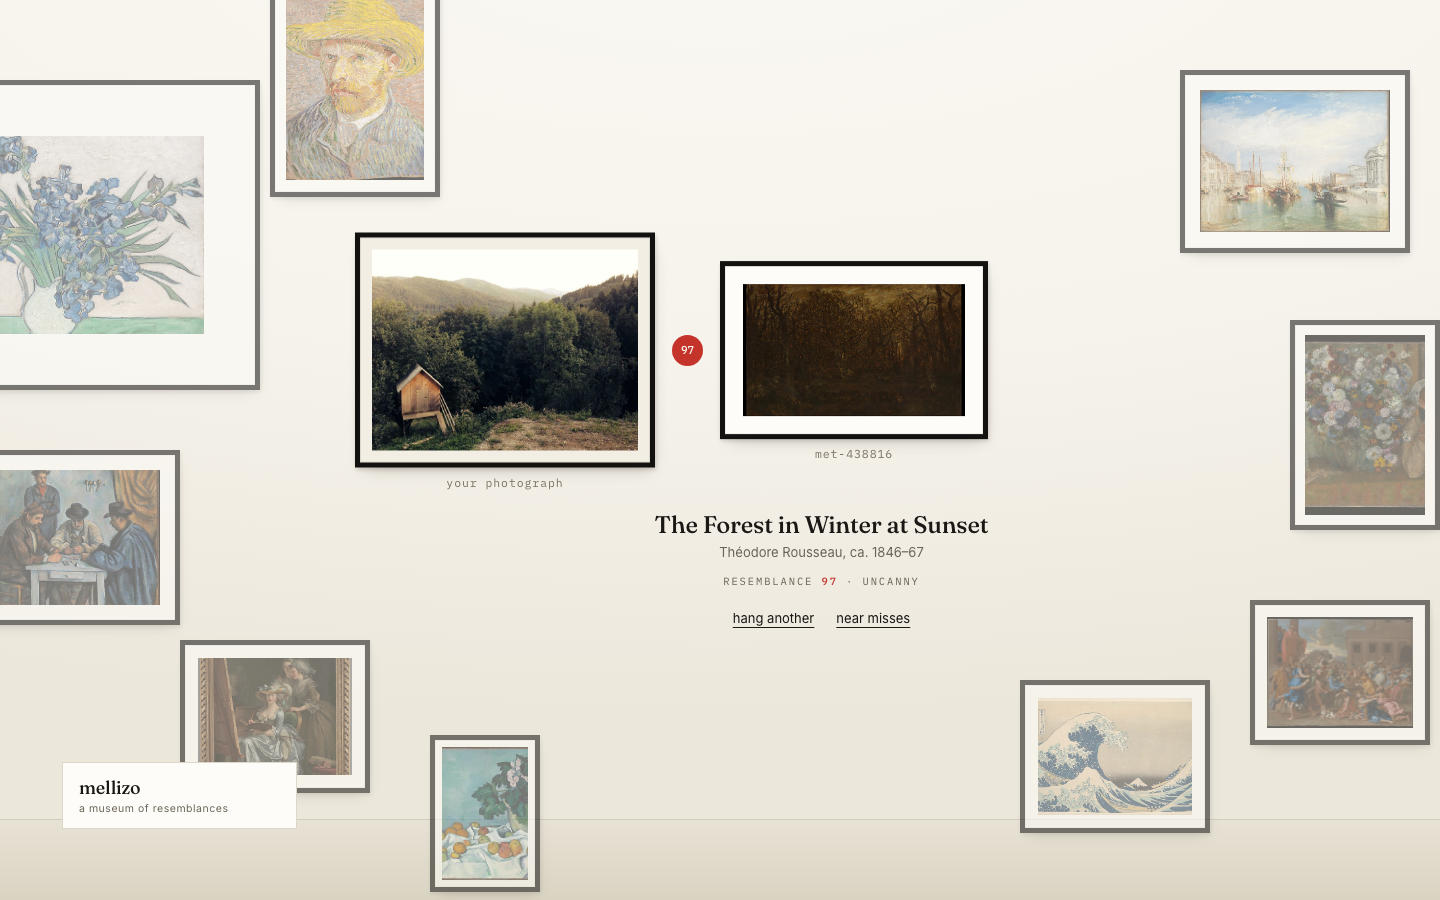
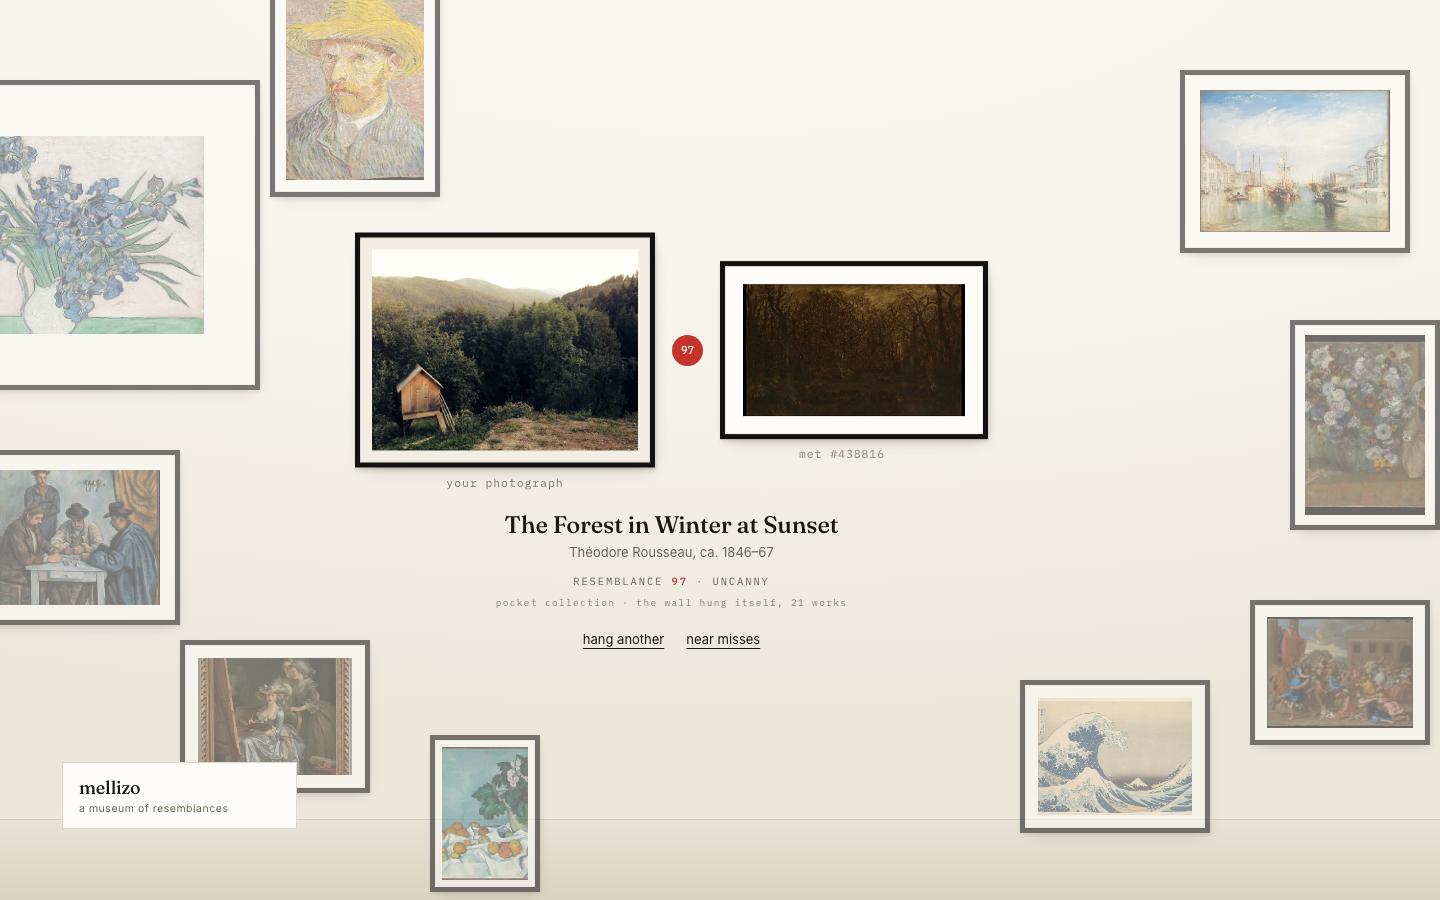
Design round 3: true stage timings, spread resemblance scores, in-flow near misses, fallback disclosure

diff --git a/src/data.ts b/src/data.ts
@@ -5,27 +5,27 @@ export type Art = {
 
 // Works hung on the entry wall — all Met open access.
 export const WALL_ART: Art[] = [
-  { id: "met-435809", title: "The Harvesters", artist: "Pieter Bruegel the Elder", date: "1565", img: "https://images.metmuseum.org/CRDImages/ep/web-large/DP119115.jpg", w: 4, h: 2.9 },
-  { id: "met-436532", title: "Self-Portrait with a Straw Hat", artist: "Vincent van Gogh", date: "1887", img: "https://images.metmuseum.org/CRDImages/ep/web-large/DT1502_cropped2.jpg", w: 3, h: 4 },
-  { id: "met-459055", title: "The Annunciation", artist: "Hans Memling", date: "1480–89", img: "https://images.metmuseum.org/CRDImages/rl/web-large/DP-40424-001.jpg", w: 3, h: 4 },
-  { id: "met-436121", title: "A Woman Seated beside a Vase of Flowers", artist: "Edgar Degas", date: "1865", img: "https://images.metmuseum.org/CRDImages/ep/web-large/DP-25460-001.jpg", w: 3, h: 4 },
-  { id: "met-436535", title: "Wheat Field with Cypresses", artist: "Vincent van Gogh", date: "1889", img: "https://images.metmuseum.org/CRDImages/ep/web-large/DP-42549-001.jpg", w: 4, h: 3 },
-  { id: "met-436105", title: "The Death of Socrates", artist: "Jacques Louis David", date: "1787", img: "https://images.metmuseum.org/CRDImages/ep/web-large/DP-13139-001.jpg", w: 4, h: 3 },
-  { id: "met-437853", title: "Venice, from the Porch of Madonna della Salute", artist: "J. M. W. Turner", date: "ca. 1835", img: "https://images.metmuseum.org/CRDImages/ep/web-large/DP169568.jpg", w: 4, h: 3 },
-  { id: "met-436944", title: "The Spanish Singer", artist: "Edouard Manet", date: "1860", img: "https://images.metmuseum.org/CRDImages/ep/web-large/dp130799.jpg", w: 3, h: 4 },
-  { id: "met-36491", title: "Under the Wave off Kanagawa", artist: "Katsushika Hokusai", date: "ca. 1830–32", img: "https://images.metmuseum.org/CRDImages/as/web-large/DP141063.jpg", w: 4, h: 3 },
-  { id: "met-435868", title: "The Card Players", artist: "Paul Cézanne", date: "1890–92", img: "https://images.metmuseum.org/CRDImages/ep/web-large/DP231550.jpg", w: 4, h: 3 },
-  { id: "met-435882", title: "Still Life with Apples and a Pot of Primroses", artist: "Paul Cézanne", date: "ca. 1890", img: "https://images.metmuseum.org/CRDImages/ep/web-large/DT47.jpg", w: 3, h: 4 },
-  { id: "met-436528", title: "Irises", artist: "Vincent van Gogh", date: "1890", img: "https://images.metmuseum.org/CRDImages/ep/web-large/DP346474.jpg", w: 4, h: 3 },
-  { id: "met-436524", title: "Sunflowers", artist: "Vincent van Gogh", date: "1887", img: "https://images.metmuseum.org/CRDImages/ep/web-large/DP-41223-001.jpg", w: 4, h: 3 },
-  { id: "met-437490", title: "The Annunciation", artist: "Hans Memling", date: "ca. 1465–70", img: "https://images.metmuseum.org/CRDImages/ep/web-large/DP240360.jpg", w: 3, h: 4 },
-  { id: "met-435962", title: "Hagar in the Wilderness", artist: "Camille Corot", date: "1835", img: "https://images.metmuseum.org/CRDImages/ep/web-large/DT2013.jpg", w: 4, h: 3 },
-  { id: "met-437329", title: "The Abduction of the Sabine Women", artist: "Nicolas Poussin", date: "probably 1633–34", img: "https://images.metmuseum.org/CRDImages/ep/web-large/DP-29324-001.jpg", w: 4, h: 3 },
-  { id: "met-459123", title: "Madame Roulin and Her Baby", artist: "Vincent van Gogh", date: "1888", img: "https://images.metmuseum.org/CRDImages/rl/web-large/DT3154.jpg", w: 3, h: 4 },
-  { id: "met-670185", title: "Dejanira Abducted by the Centaur Nessus", artist: "Charles Clément Bervic", date: "1802", img: "https://images.metmuseum.org/CRDImages/dp/web-large/DP841175.jpg", w: 3, h: 4 },
-  { id: "met-436840", title: "Self-Portrait with Two Pupils", artist: "Adélaïde Labille-Guiard", date: "1785", img: "https://images.metmuseum.org/CRDImages/ep/web-large/DP320103.jpg", w: 4, h: 3 },
-  { id: "met-438816", title: "The Forest in Winter at Sunset", artist: "Théodore Rousseau", date: "ca. 1846–67", img: "https://images.metmuseum.org/CRDImages/ep/web-large/DP-31520-001.jpg", w: 4, h: 3 },
-  { id: "met-360716", title: "Hands and Arms", artist: "Wenceslaus Hollar", date: "1644–52", img: "https://images.metmuseum.org/CRDImages/dp/web-large/DP823729.jpg", w: 4, h: 3 },
+  { id: "met-435809", objectUrl: "https://www.metmuseum.org/art/collection/search/435809", title: "The Harvesters", artist: "Pieter Bruegel the Elder", date: "1565", img: "https://images.metmuseum.org/CRDImages/ep/web-large/DP119115.jpg", w: 4, h: 2.9 },
+  { id: "met-436532", objectUrl: "https://www.metmuseum.org/art/collection/search/436532", title: "Self-Portrait with a Straw Hat", artist: "Vincent van Gogh", date: "1887", img: "https://images.metmuseum.org/CRDImages/ep/web-large/DT1502_cropped2.jpg", w: 3, h: 4 },
+  { id: "met-459055", objectUrl: "https://www.metmuseum.org/art/collection/search/459055", title: "The Annunciation", artist: "Hans Memling", date: "1480–89", img: "https://images.metmuseum.org/CRDImages/rl/web-large/DP-40424-001.jpg", w: 3, h: 4 },
+  { id: "met-436121", objectUrl: "https://www.metmuseum.org/art/collection/search/436121", title: "A Woman Seated beside a Vase of Flowers", artist: "Edgar Degas", date: "1865", img: "https://images.metmuseum.org/CRDImages/ep/web-large/DP-25460-001.jpg", w: 3, h: 4 },
+  { id: "met-436535", objectUrl: "https://www.metmuseum.org/art/collection/search/436535", title: "Wheat Field with Cypresses", artist: "Vincent van Gogh", date: "1889", img: "https://images.metmuseum.org/CRDImages/ep/web-large/DP-42549-001.jpg", w: 4, h: 3 },
+  { id: "met-436105", objectUrl: "https://www.metmuseum.org/art/collection/search/436105", title: "The Death of Socrates", artist: "Jacques Louis David", date: "1787", img: "https://images.metmuseum.org/CRDImages/ep/web-large/DP-13139-001.jpg", w: 4, h: 3 },
+  { id: "met-437853", objectUrl: "https://www.metmuseum.org/art/collection/search/437853", title: "Venice, from the Porch of Madonna della Salute", artist: "J. M. W. Turner", date: "ca. 1835", img: "https://images.metmuseum.org/CRDImages/ep/web-large/DP169568.jpg", w: 4, h: 3 },
+  { id: "met-436944", objectUrl: "https://www.metmuseum.org/art/collection/search/436944", title: "The Spanish Singer", artist: "Edouard Manet", date: "1860", img: "https://images.metmuseum.org/CRDImages/ep/web-large/dp130799.jpg", w: 3, h: 4 },
+  { id: "met-36491", objectUrl: "https://www.metmuseum.org/art/collection/search/36491", title: "Under the Wave off Kanagawa", artist: "Katsushika Hokusai", date: "ca. 1830–32", img: "https://images.metmuseum.org/CRDImages/as/web-large/DP141063.jpg", w: 4, h: 3 },
+  { id: "met-435868", objectUrl: "https://www.metmuseum.org/art/collection/search/435868", title: "The Card Players", artist: "Paul Cézanne", date: "1890–92", img: "https://images.metmuseum.org/CRDImages/ep/web-large/DP231550.jpg", w: 4, h: 3 },
+  { id: "met-435882", objectUrl: "https://www.metmuseum.org/art/collection/search/435882", title: "Still Life with Apples and a Pot of Primroses", artist: "Paul Cézanne", date: "ca. 1890", img: "https://images.metmuseum.org/CRDImages/ep/web-large/DT47.jpg", w: 3, h: 4 },
+  { id: "met-436528", objectUrl: "https://www.metmuseum.org/art/collection/search/436528", title: "Irises", artist: "Vincent van Gogh", date: "1890", img: "https://images.metmuseum.org/CRDImages/ep/web-large/DP346474.jpg", w: 4, h: 3 },
+  { id: "met-436524", objectUrl: "https://www.metmuseum.org/art/collection/search/436524", title: "Sunflowers", artist: "Vincent van Gogh", date: "1887", img: "https://images.metmuseum.org/CRDImages/ep/web-large/DP-41223-001.jpg", w: 4, h: 3 },
+  { id: "met-437490", objectUrl: "https://www.metmuseum.org/art/collection/search/437490", title: "The Annunciation", artist: "Hans Memling", date: "ca. 1465–70", img: "https://images.metmuseum.org/CRDImages/ep/web-large/DP240360.jpg", w: 3, h: 4 },
+  { id: "met-435962", objectUrl: "https://www.metmuseum.org/art/collection/search/435962", title: "Hagar in the Wilderness", artist: "Camille Corot", date: "1835", img: "https://images.metmuseum.org/CRDImages/ep/web-large/DT2013.jpg", w: 4, h: 3 },
+  { id: "met-437329", objectUrl: "https://www.metmuseum.org/art/collection/search/437329", title: "The Abduction of the Sabine Women", artist: "Nicolas Poussin", date: "probably 1633–34", img: "https://images.metmuseum.org/CRDImages/ep/web-large/DP-29324-001.jpg", w: 4, h: 3 },
+  { id: "met-459123", objectUrl: "https://www.metmuseum.org/art/collection/search/459123", title: "Madame Roulin and Her Baby", artist: "Vincent van Gogh", date: "1888", img: "https://images.metmuseum.org/CRDImages/rl/web-large/DT3154.jpg", w: 3, h: 4 },
+  { id: "met-670185", objectUrl: "https://www.metmuseum.org/art/collection/search/670185", title: "Dejanira Abducted by the Centaur Nessus", artist: "Charles Clément Bervic", date: "1802", img: "https://images.metmuseum.org/CRDImages/dp/web-large/DP841175.jpg", w: 3, h: 4 },
+  { id: "met-436840", objectUrl: "https://www.metmuseum.org/art/collection/search/436840", title: "Self-Portrait with Two Pupils", artist: "Adélaïde Labille-Guiard", date: "1785", img: "https://images.metmuseum.org/CRDImages/ep/web-large/DP320103.jpg", w: 4, h: 3 },
+  { id: "met-438816", objectUrl: "https://www.metmuseum.org/art/collection/search/438816", title: "The Forest in Winter at Sunset", artist: "Théodore Rousseau", date: "ca. 1846–67", img: "https://images.metmuseum.org/CRDImages/ep/web-large/DP-31520-001.jpg", w: 4, h: 3 },
+  { id: "met-360716", objectUrl: "https://www.metmuseum.org/art/collection/search/360716", title: "Hands and Arms", artist: "Wenceslaus Hollar", date: "1644–52", img: "https://images.metmuseum.org/CRDImages/dp/web-large/DP823729.jpg", w: 4, h: 3 },
 ];
 
 export type Match = Art & { score: number };

diff --git a/src/App.tsx b/src/App.tsx
@@ -42,6 +42,9 @@ export default function App() {
   const jobRef = useRef(0);
   const photoRef = useRef<Photo | null>(null);
   const clipReady = useRef(false);
+  const stageRef = useRef<"read" | "model" | "embed" | "search">("read");
+  const [limited, setLimited] = useState(false);
+  const swapRef = useRef(0);
 
   const result = phase === "result";
   const openPicker = () => inputRef.current?.click();
@@ -59,6 +62,7 @@ export default function App() {
     if (!f || !f.type.startsWith("image/") || busyRef.current) return;
     busyRef.current = true;
     const job = ++jobRef.current;
+    stageRef.current = "read";
     setShowRunners(false);
     setModelPct(0);
     let url: string | null = null;
@@ -73,20 +77,22 @@ export default function App() {
       setPhotoTracked({ url, w: img.naturalWidth, h: img.naturalHeight });
       url = null;
 
-      const { warmup, embedImage } = await import("./clip");
+      const { warmup, ready, embedImage } = await import("./clip");
+      stageRef.current = "model";
       if (!clipReady.current) setStatus(STATUS.warming);
       warmup(setModelPct);
-      const v = await embedImage(img);
+      await ready();
       clipReady.current = true;
       if (job !== jobRef.current) return;
 
+      stageRef.current = "embed";
       setStatus(STATUS.embedding);
-      // give the status a beat, and keep the embedding honest
-      await new Promise(r => setTimeout(r, 350));
+      const v = await embedImage(img);
       if (job !== jobRef.current) return;
 
+      stageRef.current = "search";
       setStatus(STATUS.searching);
-      const matches = await findMatches(v, 5);
+      const { list: matches, limited } = await findMatches(v, 5);
       if (job !== jobRef.current) return;
       if (!matches.length) throw new Error("empty");
 
@@ -102,13 +108,19 @@ export default function App() {
       setMatchAr(ar);
       setMatch(matches[0]);
       setRunners(matches.slice(1));
+      setLimited(limited);
       setPhase("result");
-      // the mark stamps ~900ms in — confirm exactly when it lands
-      setTimeout(() => haptics.trigger("success"), 900);
+      // the mark stamps late in the reveal — confirm exactly when it lands
+      const reduced = matchMedia("(prefers-reduced-motion: reduce)").matches;
+      setTimeout(() => haptics.trigger("success"), reduced ? 0 : 1400);
     } catch {
       if (job !== jobRef.current) return;
       setPhase("error");
-      setStatus("The wall couldn't read that photograph. Try another image.");
+      setStatus(stageRef.current === "model"
+        ? "The eyes couldn't load — check your connection and try again."
+        : stageRef.current === "search"
+          ? "The galleries didn't answer. Try once more."
+          : "The wall couldn't read that photograph. Try another image.");
     } finally {
       if (url) URL.revokeObjectURL(url);
       busyRef.current = false;
@@ -142,13 +154,22 @@ export default function App() {
     } catch { /* leave idle */ }
   }, [handleFile]);
 
-  // near misses hang in the twin's place — the pair survives, the candidate changes
+  // near misses hang in the twin's place — resolve proportions first so the
+  // frame morphs to the right shape as the candidate arrives
   const swapRunner = useCallback((r: Match) => {
-    setMatch(prev => prev ? (setRunners(rs => [prev, ...rs.filter(x => x.id !== r.id)]), r) : r);
+    const n = ++swapRef.current;
     const t = new Image();
-    t.onload = () => setMatchAr(t.naturalWidth ? t.naturalHeight / t.naturalWidth : 4 / 3);
+    t.onload = () => {
+      if (n !== swapRef.current) return;
+      setMatchAr(t.naturalWidth ? t.naturalHeight / t.naturalWidth : 4 / 3);
+      setMatch(prev => {
+        if (!prev) return r;
+        setRunners(rs => [prev, ...rs.filter(x => x.id !== r.id)]);
+        return r;
+      });
+      haptics.trigger("light");
+    };
     t.src = r.img;
-    haptics.trigger("light");
   }, []);
 
   // ----- pair geometry (result) -----
@@ -165,7 +186,7 @@ export default function App() {
   const aTop = seamY - ah / 2 - 5;
   const px = mobile ? 12 : 355;
   const ax = mobile ? 200 : 720;
-  const pairCx = (px + pwEff + ax + awEff) / 2;
+  const pairCx = (px + ax + awEff) / 2;
   const capTop = Math.max(pTop + ph, aTop + ah) + (mobile ? 34 : 52);
   const capLeft = mobile
     ? Math.min(Math.max(pairCx - 150, 10), 375 - 310)
@@ -256,7 +277,7 @@ export default function App() {
         >
           <div className="moulding">
             <div className="mat">
-              {match && <img src={match.img} alt={match.title} />}
+              {match && <img key={match.id} src={match.img} alt={match.title} />}
             </div>
           </div>
           {match?.objectUrl
@@ -281,6 +302,7 @@ export default function App() {
               <div className="title">{match.title}</div>
               <div className="who">{[match.artist, match.date].filter(Boolean).join(", ")}</div>
               <div className="verdict">resemblance <b>{match.score}</b> · {verdictWord(match.score)}</div>
+              {limited && <div className="limited">pocket collection · the wall hung itself, 21 works</div>}
               <div className="actions">
                 <button onClick={reset}>hang another</button>
                 {runners.length > 0 && (
@@ -289,19 +311,19 @@ export default function App() {
                   </button>
                 )}
               </div>
+              {showRunners && (
+                <div className="strip">
+                  {runners.slice(0, mobile ? 3 : 4).map(r => (
+                    <button key={r.id} className="mini" onClick={() => swapRunner(r)} aria-label={`Hang ${r.title} instead`}>
+                      <img src={r.img} alt={r.title} />
+                      <span>{r.score}</span>
+                    </button>
+                  ))}
+                </div>
+              )}
             </>
           )}
         </div>
-        {showRunners && result && (
-          <div className="strip" style={{ left: mobile ? Math.min(pairCx - 108, 159) : pairCx - 130, top: capTop + (mobile ? 190 : 140) }}>
-            {runners.slice(0, mobile ? 3 : 4).map(r => (
-              <button key={r.id} className="mini" onClick={() => swapRunner(r)} aria-label={`Hang ${r.title} instead`}>
-                <img src={r.img} alt={r.title} />
-                <span>{r.score}</span>
-              </button>
-            ))}
-          </div>
-        )}
 
         {/* invitation vinyl / status / error */}
         <div className={`vinyl${result ? " off" : ""}`} style={mobile
@@ -323,7 +345,7 @@ export default function App() {
           {phase === "error" ? (
             <p className={`act${mobile ? " tap" : ""}`}><button className="retry" onClick={openPicker}>try again</button></p>
           ) : phase === "idle" && !mobile ? (
-            <p className="act"><button className="retry" onClick={useSample}>or hang one of ours</button></p>
+            <p className="act"><button className="retry" onClick={useSample}><img className="sample-thumb" src="/sample.jpg" alt="" />or hang one of ours</button></p>
           ) : null}
         </div>
 

diff --git a/src/styles.css b/src/styles.css
@@ -68,7 +68,7 @@ body {
 }
 .frame.pair .accn, .frame.twin .accn { opacity: 1; }
 @media (hover: hover) { .frame:hover .accn { opacity: 1; } }
-.accn.link { color: #8d8574; text-decoration: none; padding: 8px 10px; margin: -8px -10px; border-bottom: 1px solid transparent; }
+.accn.link { color: #8d8574; text-decoration: none; padding: 16px 12px; margin: -16px -12px; border-bottom: 1px solid transparent; }
 @media (hover: hover) { .accn.link:hover { color: var(--ink); border-bottom-color: var(--ink); } }
 .accn.link:focus-visible { outline: 2px solid var(--red); outline-offset: 2px; color: var(--ink); }
 .accn.link:active { color: var(--red); }
@@ -122,15 +122,22 @@ button.frame:disabled { cursor: default; }
   font: inherit; color: inherit; cursor: pointer;
   border-bottom: 1px solid var(--ink);
 }
-.vinyl .act.tap .retry { display: inline-block; padding: 13px 6px 13px 0; margin: -4px 0; }
-.vinyl .act .retry:hover { border-bottom-color: var(--red); color: var(--red); }
+.vinyl .act.tap .retry { display: inline-block; padding: 15px 8px 15px 0; margin: -4px 0; }
+@media (hover: hover) { .vinyl .act .retry:hover { border-bottom-color: var(--red); color: var(--red); } }
+.vinyl .act .retry:active { color: var(--red); }
+.vinyl .act .retry .sample-thumb {
+  display: inline-block; width: 26px; height: 26px; object-fit: cover;
+  vertical-align: -8px; margin-right: 9px;
+  background: var(--frame); padding: 2px;
+}
 .vinyl .act .retry:focus-visible { outline: 2px solid var(--red); outline-offset: 3px; }
 .sample-under {
   position: absolute; transform: translateX(-50%);
   appearance: none; background: none; border: 0; font: inherit; cursor: pointer;
   font-size: 12.5px; color: var(--ink-soft); padding: 13px 6px;
 }
-.sample-under:hover { color: var(--red); }
+@media (hover: hover) { .sample-under:hover { color: var(--red); } }
+.sample-under:active { color: var(--red); }
 .sample-under:focus-visible { outline: 2px solid var(--red); outline-offset: 3px; }
 .vinyl .brandline {
   font-family: "IBM Plex Mono", monospace; font-size: 10px; letter-spacing: .18em;
@@ -146,6 +153,19 @@ button.frame:disabled { cursor: default; }
 .wlabel .t { font-family: "Fraunces", serif; font-size: 18px; font-weight: 500; letter-spacing: -0.01em; }
 .wlabel .s { margin-top: 3px; font-size: 10.5px; letter-spacing: .05em; color: var(--ink-soft); }
 
+/* ---------- reveal choreography ----------
+   frames clear the room (0s) → the twin arrives (+0.3s) →
+   the mark stamps (+1.15s) → the caption settles (+1.3s).
+   Returning to the entry hang runs the reverse quickly, no delays. */
+.frame.twin { transition-delay: 0s; }
+.phase-result .frame.twin { transition-delay: .3s; }
+.phase-result .mark { transition-delay: 1.15s; }
+.phase-result .caption { transition-delay: 1.3s; }
+.phase-busy .frame.twin, .phase-busy .mark, .phase-busy .caption { transition-delay: 0s; }
+/* a swapped candidate arrives through a soft focus pull */
+.frame.twin .mat img { animation: twinIn .5s ease; }
+@keyframes twinIn { from { opacity: 0; filter: saturate(.5) blur(2px); } }
+
 /* ---------- resemblance mark ---------- */
 .mark {
   position: absolute; width: 31px; height: 31px; border-radius: 50%;
@@ -153,13 +173,13 @@ button.frame:disabled { cursor: default; }
   display: flex; align-items: center; justify-content: center;
   font-family: "IBM Plex Mono", monospace; font-size: 11px; font-weight: 500;
   opacity: 0; transform: scale(.6);
-  transition: opacity .45s ease .75s, transform .45s cubic-bezier(.2,1.4,.4,1) .75s;
+  transition: opacity .45s ease, transform .45s cubic-bezier(.2,1.4,.4,1);
 }
 .mark.on { opacity: 1; transform: scale(1); }
 
 /* ---------- caption ---------- */
-.caption { position: absolute; opacity: 0; transition: opacity .6s ease 1s; }
-.caption.on { opacity: 1; }
+.caption { position: absolute; opacity: 0; transform: translateY(8px); transition: opacity .55s ease, transform .55s var(--ease-wall); }
+.caption.on { opacity: 1; transform: translateY(0); }
 .caption .cap-brand {
   font-family: "IBM Plex Mono", monospace; font-size: 10px; letter-spacing: .18em;
   color: var(--ink-soft); text-transform: lowercase; margin-bottom: 10px;
@@ -171,6 +191,10 @@ button.frame:disabled { cursor: default; }
   text-transform: uppercase; color: var(--ink-soft); margin-top: 14px;
 }
 .caption .verdict b { color: var(--red); font-weight: 500; }
+.caption .limited {
+  font-family: "IBM Plex Mono", monospace; font-size: 9.5px; letter-spacing: .14em;
+  text-transform: lowercase; color: var(--ink-soft); margin-top: 8px; opacity: .8;
+}
 .caption .actions { margin-top: 18px; display: flex; gap: 22px; justify-content: center; }
 .caption .actions button {
   background: none; border: 0; font: inherit; font-size: 13px; color: var(--ink);
@@ -184,7 +208,7 @@ button.frame:disabled { cursor: default; }
 .caption .actions button:focus-visible { outline: 2px solid var(--red); outline-offset: 3px; }
 
 /* ---------- near-miss strip ---------- */
-.strip { position: absolute; display: flex; gap: 14px; }
+.strip { display: flex; gap: 14px; justify-content: center; margin-top: 14px; }
 .strip .mini {
   position: relative; width: 58px; display: block;
   background: none; border: 0; padding: 8px 0; cursor: pointer;
@@ -212,7 +236,7 @@ button.frame:disabled { cursor: default; }
 
 @media (prefers-reduced-motion: reduce) {
   .frame, .frame .moulding, .frame .mat, .frame .accn, .mark, .caption, .wlabel, .vinyl,
-  .reserved .mat, .reserved .choose, .strip .mini, .strip .mini img {
+  .reserved .mat, .reserved .choose, .strip .mini, .strip .mini img, .frame.twin .mat img {
     transition-duration: .01s !important; transition-delay: 0s !important;
     animation-duration: .01s !important; animation-delay: 0s !important;
   }

diff --git a/src/match.ts b/src/match.ts
@@ -6,13 +6,15 @@ import { WALL_ART, type Match } from "./data";
 const URL_ = import.meta.env.VITE_SUPABASE_URL as string | undefined;
 const KEY = import.meta.env.VITE_SUPABASE_ANON_KEY as string | undefined;
 
-// CLIP cosine similarity between a photo and an artwork lands around
-// 0.15-0.35; scale that band into a readable resemblance score.
+// Measured on the real corpus: CLIP cosine similarity between a photo and an
+// artwork lands ~0.30 for unrelated pairs and ~0.50-0.55 for eerie ones.
+// Map that band linearly so near misses keep distinguishable scores
+// instead of saturating at the top.
 export function resemblance(sim: number): number {
-  return Math.round(Math.min(97, Math.max(41, 41 + (sim - 0.1) / 0.28 * 56)));
+  return Math.round(Math.min(97, Math.max(41, 41 + (sim - 0.30) / 0.22 * 56)));
 }
 
-export async function findMatches(v: number[], count = 5): Promise<Match[]> {
+export async function findMatches(v: number[], count = 5): Promise<{ list: Match[]; limited: boolean }> {
   if (URL_ && KEY) {
     try {
       const res = await fetch(`${URL_}/rest/v1/rpc/match_artworks`, {
@@ -37,18 +39,21 @@ export async function findMatches(v: number[], count = 5): Promise<Match[]> {
               /^(https?:)?\/\//.test(r.thumb_url || r.image_url))
           : [];
         if (ok.length) {
-          return ok.map(r => ({
-            id: r.id, title: String(r.title ?? ""), artist: String(r.artist ?? ""),
-            date: String(r.date ?? ""),
-            img: r.thumb_url || r.image_url,
-            objectUrl: typeof r.object_url === "string" ? r.object_url : "",
-            w: 4, h: 3, score: resemblance(1 - r.distance),
-          }));
+          return {
+            limited: false,
+            list: ok.map(r => ({
+              id: r.id, title: String(r.title ?? ""), artist: String(r.artist ?? ""),
+              date: String(r.date ?? ""),
+              img: r.thumb_url || r.image_url,
+              objectUrl: typeof r.object_url === "string" ? r.object_url : "",
+              w: 4, h: 3, score: resemblance(1 - r.distance),
+            })),
+          };
         }
       }
     } catch { /* fall through to local corpus */ }
   }
-  return localMatches(v, count);
+  return { limited: true, list: await localMatches(v, count) };
 }
 
 // Degraded path: the works hung on the wall, embedded at build time.

diff --git a/src/clip.ts b/src/clip.ts
@@ -18,6 +18,12 @@ export function warmup(onProgress?: (p: number) => void) {
   }).catch(e => { modelP = null; throw e; });
 }
 
+// resolves when the model is fully loaded — lets the UI show download vs
+// inference as separate stages instead of one long "working"
+export async function ready() {
+  await Promise.all([procP, modelP]);
+}
+
 export async function embedImage(img: HTMLImageElement): Promise<number[]> {
   warmup();
   const [proc, model] = await Promise.all([procP!, modelP!]);

diff --git a/src/hang.ts b/src/hang.ts
@@ -48,7 +48,7 @@ export const RESULT_DESKTOP: [number, number, number, number, boolean?][] = [
 ];
 
 export const RESULT_MOBILE: [number, number, number, number, boolean?][] = [
-  [14, -30, 645, 140],
-  [17, 140, 662, 110],
-  [10, 292, 640, 85],
+  [14, -30, 668, 140],
+  [17, 140, 684, 110],
+  [10, 292, 665, 85],
 ];
